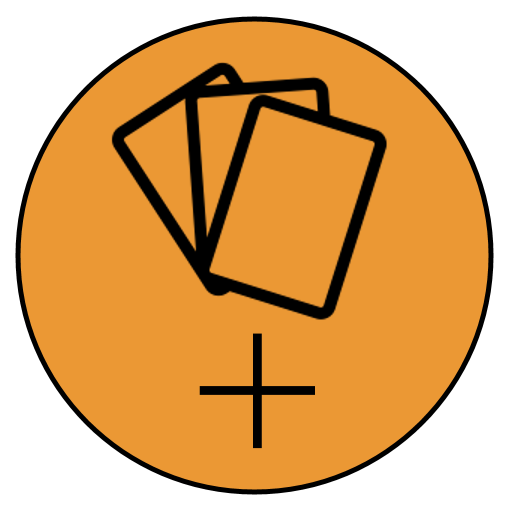
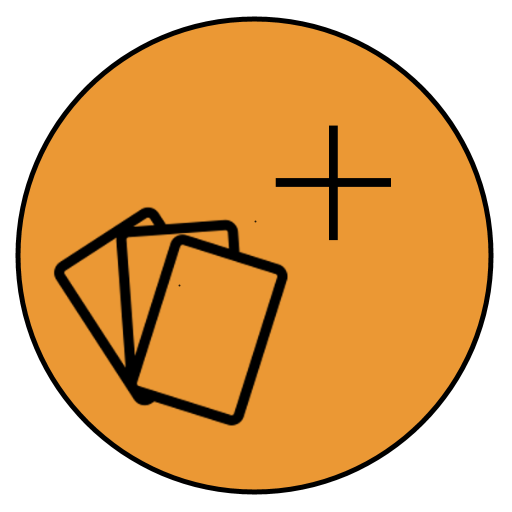
iconos editar

Changed region(s): [[0.0938, 0.125, 0.7812, 0.875]]

diff --git a/src/pages/Home.tsx b/src/pages/Home.tsx
@@ -96,15 +96,15 @@ const Home: React.FC =  () => {
                     <React.Fragment key={i}><MazoComponent {...propAux = {nombre: mazo.nombre, id: MId[i]}}></MazoComponent></React.Fragment>))}
             </IonList>
             <IonFab vertical="bottom" horizontal="start" slot="fixed">
-          <IonFabButton  color='transparent' title="Editar">
-            <IonIcon className='edit-icon' icon={add}></IonIcon>
+          <IonFabButton  className='create-outline' title="Editar">
+            <IonIcon className='edit-icon'  icon={add}></IonIcon>
           </IonFabButton>
           <IonFabList side="top">
-          <IonFabButton className="popover-button" routerLink="/edeck" >
-            <IonIcon icon={add}></IonIcon>
+          <IonFabButton className="popover-button-edeck" routerLink="/edeck" >
+            <IonIcon className="edeck-icon"></IonIcon>
           </IonFabButton>  
-          <IonFabButton className="popover-button" routerLink="/ecard">
-              <IonIcon icon={add} color="dark"></IonIcon>
+          <IonFabButton className="popover-button-ecard" routerLink="/ecard">
+              <IonIcon className="ecard-icon"></IonIcon>
             </IonFabButton>
           </IonFabList>
         </IonFab> 
@@ -114,11 +114,11 @@ const Home: React.FC =  () => {
             <IonIcon icon={add}></IonIcon>
           </IonFabButton>
           <IonFabList side="top">
-            <IonFabButton className="popover-button-card" color='transparent' routerLink="/ncard" title='Agregar carta'>
-              <IonIcon className="card-icon" icon={add} color="dark"></IonIcon>
+            <IonFabButton className="popover-button-card"  routerLink="/ncard" title='Agregar carta'>
+              <IonIcon className="card-icon"></IonIcon>
             </IonFabButton>
-            <IonFabButton className="popover-button-deck" color="transparent" routerLink="/ndeck" title='Agregar mazo'>
-              <IonIcon className='deck-icon' icon={add} color="dark"></IonIcon>
+            <IonFabButton className="popover-button-deck"  routerLink="/ndeck" title='Agregar mazo'>
+              <IonIcon className='deck-icon'></IonIcon>
             </IonFabButton>
           </IonFabList>
         </IonFab> 

diff --git a/src/theme/Home.css b/src/theme/Home.css
@@ -25,6 +25,19 @@ ion-fab-button::part(native) {
     color: black;
 }
 
+.ecard-icon{
+    content: url("../images/editar-mazos.png") !important;
+    font-size: 40px;
+    box-shadow: 0px 1px 2px 0px rgba(0,0,0,.3), 0px 1px 3px 1px rgba(0,0,0,.15);
+    color: black;
+}
+
+.edeck-icon{
+    content: url("../images/editar-cartas.png") !important;
+    font-size: 40px;
+    box-shadow: 0px 1px 2px 0px rgba(0,0,0,.3), 0px 1px 3px 1px rgba(0,0,0,.15);
+    color: black;
+}
 
 .card-icon{
     content: url("../images/cartas.png") !important;
@@ -38,10 +51,6 @@ ion-fab-button::part(native) {
     font-size: 40px;
     box-shadow: 0px 1px 2px 0px rgba(0,0,0,.3), 0px 1px 3px 1px rgba(0,0,0,.15);
     color: black;
-}
-
-.nuevo-icon{
-    border-color: blue;
 }
 
 ion-title {
